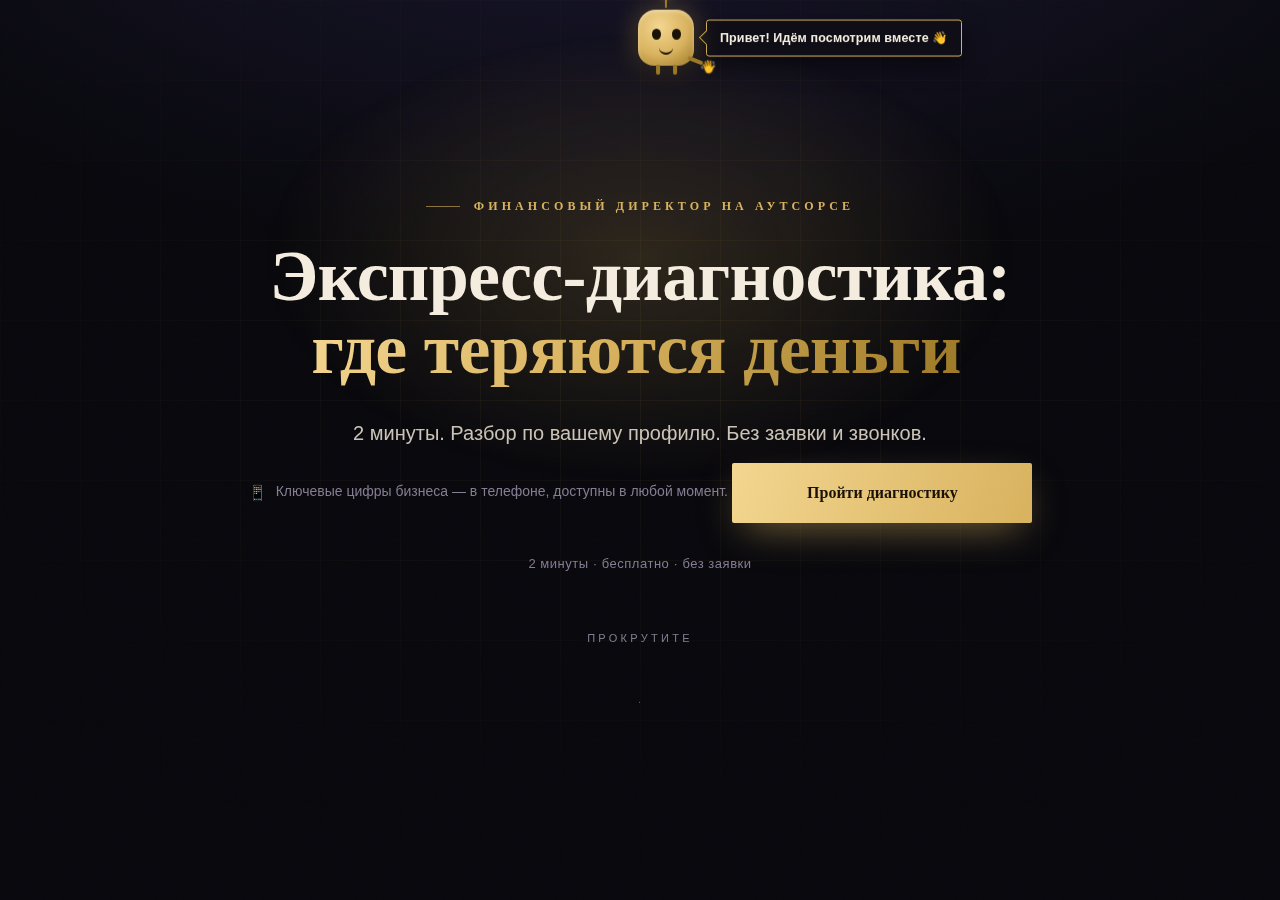
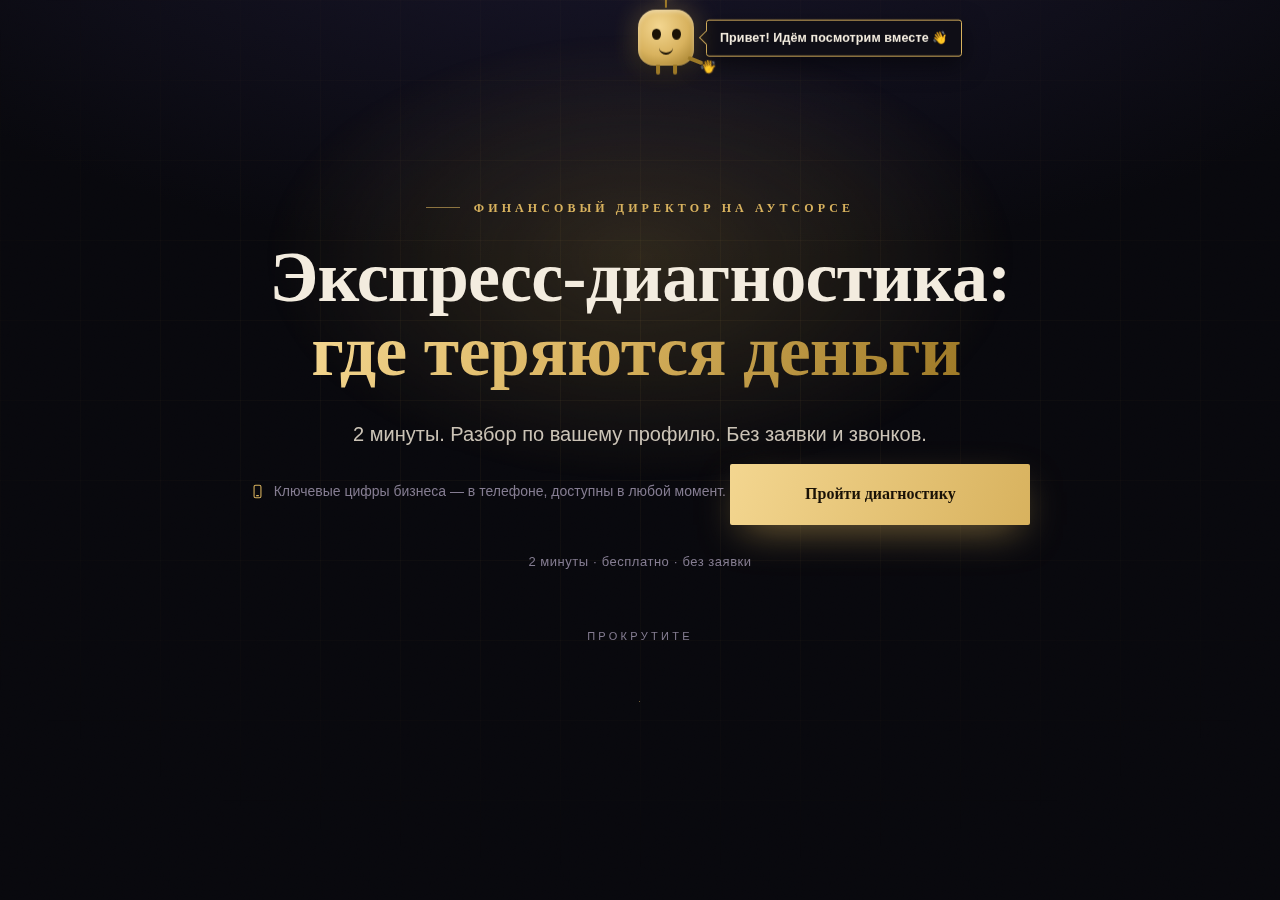
Fix mobile layout bugs in hero, phone mockup and audit verdict
- Hero: shrink h1 clamp floor (was 34px → 25px/7vw) so the typed
  headline 'где теряются деньги' fits fully on 320/375px instead of
  being clipped; tighten .wrap padding under 360px; allow word wrap
- Hero: replace broken 📱 emoji pseudo-element with crisp inline SVG
  phone icon next to the pocket line
- Phone mockup: shorter screen (aspect 9/16.5) + chart caption and
  week axis, drop margin-top:auto — removes the empty gap, denser look
- Audit verdict: demote 'Сохранить разбор' from outline button to a
  quiet underlined text-link so it no longer competes with the main CTA
- Pocket: add divider/spacing before the 'Ничего не нужно устанавливать'
  lead note so it stops merging with the last scenario on mobile
- screenshots.mjs: wait for full typed phrase before hero shot
- Regenerate control screenshots

diff --git a/index.html b/index.html
@@ -84,16 +84,18 @@
     background-size:80px 80px;
     mask:radial-gradient(70% 60% at 50% 40%,#000,transparent);
     -webkit-mask:radial-gradient(70% 60% at 50% 40%,#000,transparent)}
-  .hero h1{font-size:clamp(34px,7vw,72px);font-weight:900;color:var(--cream);margin-bottom:6px}
+  .hero h1{font-size:clamp(25px,7vw,72px);font-weight:900;color:var(--cream);margin-bottom:6px;
+    overflow-wrap:break-word;word-break:break-word}
+  @media(max-width:360px){.wrap{padding:0 18px}}
   .hero h1 em{font-style:italic;font-weight:500}
-  .type{display:inline-block;border-right:3px solid var(--gold);padding-right:5px;
-    animation:blink 1.05s step-end infinite}
+  .type{display:inline;max-width:100%;border-right:3px solid var(--gold);padding-right:5px;
+    overflow-wrap:break-word;animation:blink 1.05s step-end infinite}
   @keyframes blink{50%{border-color:transparent}}
   .hero-sub{font-size:clamp(16px,2.4vw,20px);color:var(--cream-dim);
     max-width:600px;margin:30px auto 14px;line-height:1.6}
   .hero-pocket{font-size:14px;color:var(--muted);max-width:520px;margin:0 auto 36px;
     display:inline-flex;align-items:center;gap:9px;justify-content:center}
-  .hero-pocket::before{content:"📱";font-size:15px}
+  .hp-ico{flex-shrink:0;color:var(--gold)}
   .hero .btn{min-width:300px}
   .scrolldown{margin-top:56px;font-size:11px;letter-spacing:.3em;color:var(--muted);
     text-transform:uppercase}
@@ -205,8 +207,15 @@
     display:grid;place-items:center;font-weight:700}
   .verdict-actions{padding:24px 28px;border-top:1px solid var(--line);background:rgba(0,0,0,.2)}
   .verdict-soft{font-size:14.5px;color:var(--cream-dim);margin:0 0 16px;line-height:1.55}
-  .verdict-actions .cta-row{gap:12px}
+  .verdict-actions .cta-row{gap:12px 18px}
   .btn-sm{padding:13px 20px;font-size:14px}
+  /* вторичное действие — тихая текст-ссылка, не конкурирует с главной CTA */
+  .btn-text{display:inline-flex;align-items:center;gap:6px;background:none;border:none;
+    box-shadow:none;cursor:pointer;font-family:'Manrope';font-weight:600;font-size:13.5px;
+    color:var(--muted);padding:6px 2px;letter-spacing:.02em;text-decoration:underline;
+    text-underline-offset:3px;text-decoration-color:var(--line);transition:color .2s}
+  .btn-text:hover{color:var(--gold);text-decoration-color:var(--gold)}
+  .btn-text:focus-visible{outline:2px solid var(--gold);outline-offset:3px;border-radius:2px}
 
   /* ============ КАК НАХОДИМ (БУХ vs ФИНДИР) ============ */
   .vs{display:grid;grid-template-columns:1fr auto 1fr;gap:24px;align-items:center}
@@ -244,7 +253,7 @@
   .scn b{font-family:'Playfair Display';font-size:17px;display:block;margin-bottom:3px;color:var(--cream)}
   .scn span{font-size:14px;color:var(--muted)}
   .phone-col{display:flex;flex-direction:column;align-items:center}
-  .phone{width:272px;max-width:80vw;aspect-ratio:9/19;border-radius:36px;
+  .phone{width:272px;max-width:80vw;aspect-ratio:9/16.5;border-radius:36px;
     border:1px solid var(--line);background:linear-gradient(170deg,var(--ink-2),var(--coal));
     box-shadow:0 40px 90px -30px rgba(0,0,0,.85),var(--glow),inset 0 1px 0 rgba(255,255,255,.06);
     padding:14px 12px;position:relative}
@@ -259,11 +268,17 @@
     padding:9px 0;border-top:1px solid var(--line)}
   .ps-row span{color:var(--muted)}.ps-row b{color:var(--cream-dim);font-weight:600}
   .ps-row b.warn{color:var(--loss)}.ps-row b.ok{color:var(--plus)}
-  .ps-chart{margin-top:auto;display:flex;align-items:flex-end;gap:5px;height:52px;padding-top:8px}
+  .ps-chart-cap{font-size:9px;letter-spacing:.2em;text-transform:uppercase;color:var(--muted);
+    margin-top:14px;padding-top:14px;border-top:1px solid var(--line)}
+  .ps-chart{display:flex;align-items:flex-end;gap:5px;height:60px;margin-top:8px}
   .ps-chart i{flex:1;background:linear-gradient(var(--gold),var(--gold-deep));border-radius:2px 2px 0 0;opacity:.85}
+  .ps-axis{display:flex;gap:5px;margin-top:6px}
+  .ps-axis span{flex:1;text-align:center;font-size:8px;letter-spacing:.04em;color:var(--muted-2)}
   .phone-cap{margin-top:16px;font-size:12px;color:var(--muted-2);text-align:center}
   .pocket-note{margin-top:34px;font-size:14px;color:var(--muted);max-width:780px;line-height:1.6}
   .pocket-note b{color:var(--cream-dim)}
+  /* лид-заметка внутри колонки сценариев — отделяем, чтобы не сливалась с последним сценарием */
+  .pocket-note--lead{margin-top:26px;padding-top:24px;border-top:1px solid var(--line)}
 
   /* ============ ЧТО ПОЛУЧАЕТЕ ============ */
   .deliv{display:grid;grid-template-columns:1fr 1fr;gap:0}
@@ -519,7 +534,13 @@
     </div>
     <h1>Экспресс-диагностика:<br><span class="type gold-text" id="type"></span></h1>
     <p class="hero-sub">2 минуты. Разбор по вашему профилю. Без заявки и звонков.</p>
-    <p class="hero-pocket">Ключевые цифры бизнеса — в телефоне, доступны в любой момент.</p>
+    <p class="hero-pocket">
+      <svg class="hp-ico" width="15" height="15" viewBox="0 0 24 24" fill="none"
+        stroke="currentColor" stroke-width="1.7" stroke-linecap="round" aria-hidden="true">
+        <rect x="6.5" y="2" width="11" height="20" rx="2.4"/><line x1="10.5" y1="18.6" x2="13.5" y2="18.6"/>
+      </svg>
+      <span>Ключевые цифры бизнеса — в телефоне, доступны в любой момент.</span>
+    </p>
     <a href="#core" class="btn">Пройти диагностику</a>
     <p class="micro">2 минуты · бесплатно · без заявки</p>
     <div class="scrolldown" aria-hidden="true">прокрутите<span></span></div>
@@ -625,7 +646,12 @@
         <p class="verdict-soft" id="vSoft"></p>
         <div class="cta-row">
           <a href="#final" class="btn btn-sm">Разобрать на моих цифрах — 30 мин, бесплатно</a>
-          <button class="btn btn-ln btn-sm" id="savePdf" type="button">Сохранить разбор</button>
+          <button class="btn-text" id="savePdf" type="button">
+            <svg width="13" height="13" viewBox="0 0 24 24" fill="none" stroke="currentColor"
+              stroke-width="1.8" stroke-linecap="round" stroke-linejoin="round" aria-hidden="true">
+              <path d="M12 3v12m0 0l-4-4m4 4l4-4"/><path d="M5 21h14"/></svg>
+            Сохранить разбор
+          </button>
         </div>
       </div>
     </div>
@@ -714,7 +740,7 @@
           <span>сразу видно, не уходите ли в минус по марже.</span></div>
         <div class="scn"><b>Утром с кофе</b>
           <span>один экран: деньги, долги, ближайшие платежи.</span></div>
-        <p class="pocket-note reveal" data-rv="up">
+        <p class="pocket-note pocket-note--lead reveal" data-rv="up">
           <b>Ничего не нужно устанавливать и осваивать</b> — открывается по ссылке,
           как обычная страница. Захотели — посмотрели.
         </p>
@@ -727,10 +753,12 @@
             <div class="ps-row"><span>Дебиторка</span><b class="warn ph">1 150 000 ₽</b></div>
             <div class="ps-row"><span>Ближайший платёж · 10.06</span><b class="ph">640 000 ₽</b></div>
             <div class="ps-row"><span>Прогноз на конец месяца</span><b class="ok ph">+310 000 ₽</b></div>
+            <div class="ps-chart-cap">Деньги по неделям</div>
             <div class="ps-chart">
               <i style="height:45%"></i><i style="height:62%"></i><i style="height:38%"></i>
               <i style="height:74%"></i><i style="height:56%"></i><i style="height:88%"></i><i style="height:66%"></i>
             </div>
+            <div class="ps-axis"><span>1</span><span>2</span><span>3</span><span>4</span><span>5</span><span>6</span><span>7</span></div>
           </div>
         </div>
         <div class="phone-cap">цифры на экране — пример оформления</div>
